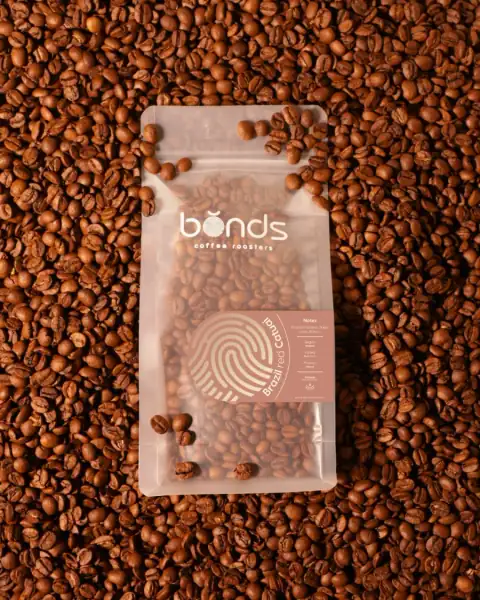
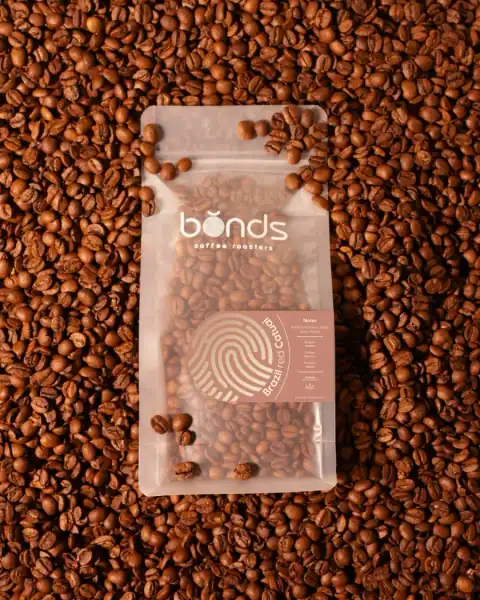
Cairo Roast home: coffees first with a taste filter; faster photos
- Home: a one-line how-it-works strip (2×2 on phones), then the coffees right away with one filter row (All · taste families · blends · single origin) that works without scripts; the discovery box follows the coffees
- Photos: a 720 px copy for product pages on phones (83 KB instead of 184 KB) and a lighter 480 px copy for cards (45 KB); size hints so phones stop downloading the full photo
- Photos, logos and build files are cached by browsers (30 days; build files for good) and, on cPanel, copied into cairoroast.com's web folder so the web server sends them instead of the Node app

diff --git a/apps/web/src/app/[niche]/page.tsx b/apps/web/src/app/[niche]/page.tsx
@@ -1,5 +1,6 @@
 import type { Metadata } from 'next';
 import Link from 'next/link';
+import { Fragment } from 'react';
 import { notFound } from 'next/navigation';
 import { BundleArt, TrustIcon } from '@/components/Art';
 import { Footer } from '@/components/Footer';
@@ -8,7 +9,7 @@ import { catalog } from '@/lib/catalog';
 import { guidesFor } from '@/lib/guides';
 import { speaker } from '@/lib/lang';
 import { getNiche } from '@/lib/niches';
-import { responsive } from '@/lib/img';
+import { CARD_SIZES, responsive } from '@/lib/img';
 import { jsonLd, origin, pageMeta, siteUrl } from '@/lib/site';
 
 type P = { params: Promise<{ niche: string }> };
@@ -32,6 +33,11 @@ export default async function Home({ params }: P) {
   const sellers = [...new Map(products.map((p) => [p.sellerId, cat.sellerOf(p)])).values()].filter((x) => x.about);
   const guides = guidesFor(cfg.id);
   const families = (cfg.tasteFamilies ?? []).filter((f) => products.some((p) => p.profile?.family === f.id));
+  // Filter chips on the home page: taste families first, then categories (only when a niche has taste families).
+  const filters = families.length ? [
+    ...families.map((f) => ({ id: f.id, emoji: f.emoji, label: (s.en && f.labelEn) || f.labelAr, hint: (s.en && f.hintEn) || f.hintAr, count: products.filter((p) => p.profile?.family === f.id).length })),
+    ...cfg.categories.map((c) => ({ id: c.id, emoji: undefined, label: s.category(c), hint: undefined, count: products.filter((p) => p.category === c.id).length })).filter((c) => c.count > 0),
+  ] : [];
   const structured = [
     { '@context': 'https://schema.org', '@type': 'OnlineStore', name: cfg.brand.nameEn, alternateName: cfg.brand.nameAr, url: siteUrl(cfg), description: cfg.brand.description?.en, ...(cfg.brand.logo ? { logo: `${origin(cfg)}${cfg.brand.icon ?? cfg.brand.logo}` } : {}), areaServed: 'EG', currenciesAccepted: 'EGP', paymentAccepted: 'Cash on delivery, InstaPay' },
     { '@context': 'https://schema.org', '@type': 'WebSite', name: cfg.brand.nameEn, url: siteUrl(cfg), inLanguage: ['ar', 'en'], potentialAction: { '@type': 'SearchAction', target: `${siteUrl(cfg, '/search')}?q={q}`, 'query-input': 'required name=q' } },
@@ -52,31 +58,15 @@ export default async function Home({ params }: P) {
           </div>
           <div className="ph-stack" aria-hidden="true">
             {/* eslint-disable-next-line @next/next/no-img-element */}
-            {cfg.hero.images.slice(0, 3).map((src, i) => <img key={src} {...responsive(src, '(min-width: 700px) 240px, 46vw')} alt="" className={`s${i}`} decoding="async" fetchPriority={i === 0 ? 'high' : 'auto'} />)}
+            {cfg.hero.images.slice(0, 3).map((src, i) => <img key={src} {...responsive(src, CARD_SIZES)} alt="" className={`s${i}`} decoding="async" fetchPriority={i === 0 ? 'high' : 'auto'} />)}
           </div>
         </section>
       )}
       {cfg.steps?.length ? (
-        <section className="steps" aria-label={s.en ? 'How it works' : 'إزاي بتطلب'}>
-          <h2 className="sec">{s.en ? 'How it works' : 'إزاي بتطلب؟'}</h2>
-          <ol>
-            {cfg.steps.map((st, i) => (
-              <li key={st.ar}><span className="em" aria-hidden="true">{st.emoji}</span><span className="n">{i + 1}</span><b>{text(st)}</b><span className="muted">{text(st.text)}</span></li>
-            ))}
-          </ol>
-        </section>
+        <ol className="steps-strip" aria-label={s.en ? 'How it works' : 'إزاي بتطلب'}>
+          {cfg.steps.map((st) => <li key={st.ar}><span aria-hidden="true">{st.emoji}</span><b>{text(st)}</b></li>)}
+        </ol>
       ) : null}
-      {hero && cfg.hero && (
-        <Link className="box-card" href={`/${cfg.id}/b/${hero.bundle.id}`}>
-          <div className="art"><BundleArt parts={hero.parts.map((p) => p.product)} /></div>
-          <div>
-            <span className="small">{text(cfg.homeEyebrow)}</span>
-            <b>{s.bundle(hero.bundle)}</b>
-            <span className="small muted">{hero.parts.map((p) => s.product(p.product).split(' — ')[0]).join(' + ')}</span>
-            <div className="price num"><b>{s.egp(hero.price)}</b><s>{s.egp(hero.fullPrice)}</s><span className="save">{s.t('bundleSave', { x: s.egp(hero.bundle.discountEgp) })}</span></div>
-          </div>
-        </Link>
-      )}
       {hero && !cfg.hero && (
         <section className="hero">
           <div className="art"><BundleArt parts={hero.parts.map((p) => p.product)} /></div>
@@ -98,21 +88,28 @@ export default async function Home({ params }: P) {
           <div><b>{s.t('how.3')}</b>{s.t('how.3s')}</div>
         </div>
       )}
-      {families.length > 0 && (
-        <section style={{ display: 'grid', gap: 10 }}>
-          <div><h2 className="sec">{s.t('shopByTaste')}</h2><span className="muted small">{s.t('shopByTasteSub')}</span></div>
-          <div className="families">
-            {families.map((f) => (
-              <Link key={f.id} className="family" href={`/${cfg.id}/search?family=${f.id}`}>
-                <b>{f.emoji ? <span className="fe" aria-hidden="true">{f.emoji}</span> : null}{(s.en && f.labelEn) || f.labelAr}</b>
-                {f.hintAr && <span className="muted">{(s.en && f.hintEn) || f.hintAr}</span>}
-                <span className="go" aria-hidden="true">←</span>
-              </Link>
+      {products.length && filters.length ? (
+        // Taste and type filters in one row; pure CSS (radio buttons), so it works before any script loads.
+        <section className="shop" id="coffees" aria-labelledby="coffees-h">
+          <style dangerouslySetInnerHTML={{ __html: filters.map((f) => `.shop:has(#f-${f.id}:checked) .grid>:not([data-f~="${f.id}"]){display:none}.shop:has(#f-${f.id}:checked) .fhint[data-for="${f.id}"]{display:block}`).join('') }} />
+          <div>
+            <h2 className="sec" id="coffees-h">{text(cfg.homeSection)}</h2>
+            <span className="muted small">{s.t('shopByTasteSub')}</span>
+          </div>
+          <div className="filters" role="radiogroup" aria-label={s.t('shopByTaste')}>
+            <input type="radio" name="shop-filter" id="f-all" defaultChecked />
+            <label htmlFor="f-all">{s.en ? 'All' : 'الكل'}<span className="n">{products.length}</span></label>
+            {filters.map((f) => (
+              <Fragment key={f.id}>
+                <input type="radio" name="shop-filter" id={`f-${f.id}`} />
+                <label htmlFor={`f-${f.id}`}>{f.emoji && <span aria-hidden="true">{f.emoji}</span>}{f.label}<span className="n">{f.count}</span></label>
+              </Fragment>
             ))}
           </div>
+          {filters.filter((f) => f.hint).map((f) => <p key={f.id} className="fhint muted small" data-for={f.id}>{f.emoji} {f.hint}</p>)}
+          <div className="grid">{products.map((p) => <ProductCard key={p.id} p={p} seller={cat.sellerOf(p)} s={s} tags={[p.profile?.family, p.category].filter(Boolean).join(' ')} />)}</div>
         </section>
-      )}
-      {products.length ? (
+      ) : products.length ? (
         <>
           <nav className="chips" aria-label={s.t('categories')}>
             {cfg.categories.map((c) => <Link key={c.id} className="chip" href={`/${cfg.id}/search?cat=${c.id}`}>{s.category(c)}</Link>)}
@@ -128,6 +125,17 @@ export default async function Home({ params }: P) {
             {cfg.categories.map((c) => <span key={c.id} className="chip">{s.category(c)}</span>)}
           </div>
         </section>
+      )}
+      {hero && cfg.hero && (
+        <Link className="box-card" href={`/${cfg.id}/b/${hero.bundle.id}`}>
+          <div className="art"><BundleArt parts={hero.parts.map((p) => p.product)} /></div>
+          <div>
+            <span className="small">{text(cfg.homeEyebrow)}</span>
+            <b>{s.bundle(hero.bundle)}</b>
+            <span className="small muted">{hero.parts.map((p) => s.product(p.product).split(' — ')[0]).join(' + ')}</span>
+            <div className="price num"><b>{s.egp(hero.price)}</b><s>{s.egp(hero.fullPrice)}</s><span className="save">{s.t('bundleSave', { x: s.egp(hero.bundle.discountEgp) })}</span></div>
+          </div>
+        </Link>
       )}
       {sellers.map((x) => (
         <section key={x.id} className="roaster" aria-label={s.t('meetRoaster')}>

diff --git a/apps/web/src/app/globals.css b/apps/web/src/app/globals.css
@@ -300,3 +300,23 @@ details p { margin: 6px 0 0; color: var(--muted); }
 .best-list i { font-style: normal; }
 .roaster .av:has(img), .roaster-chip .av:has(img) { background: #fff; border: 1px solid var(--line); }
 .roaster .av img, .roaster-chip .av img { object-fit: contain; }
+
+/* Home: one-line how-it-works strip, and the coffee filter row */
+.steps-strip { list-style: none; margin: 0; padding: 10px 12px; display: grid; grid-template-columns: 1fr 1fr; gap: 8px 10px; border-radius: 14px; background: var(--surface); border: 1px solid var(--line); }
+.steps-strip li { display: flex; align-items: center; gap: 6px; font-size: 12.5px; line-height: 1.3; }
+.steps-strip li span { font-size: 17px; }
+@media (min-width: 700px) {
+  .steps-strip { display: flex; justify-content: space-between; padding: 12px 18px; }
+  .steps-strip li { font-size: 14px; white-space: nowrap; }
+  .steps-strip li + li::before { content: '→'; color: var(--muted); margin-inline-end: 8px; }
+  [dir="rtl"] .steps-strip li + li::before { content: '←'; }
+}
+.shop { display: grid; gap: 10px; scroll-margin-top: 80px; }
+.filters { display: flex; gap: 8px; overflow-x: auto; padding: 2px 0 4px; scrollbar-width: none; }
+.filters input { position: absolute; opacity: 0; pointer-events: none; }
+.filters label { flex: none; display: inline-flex; align-items: center; gap: 6px; min-height: 40px; padding: 8px 14px; border-radius: 999px; border: 1.5px solid var(--line); background: var(--surface); font-size: 13.5px; font-weight: 700; cursor: pointer; white-space: nowrap; }
+.filters label .n { font-size: 11px; font-weight: 700; min-width: 18px; padding: 1px 6px; border-radius: 999px; background: var(--surface-2); color: var(--muted); text-align: center; }
+.filters input:checked + label { background: var(--primary); border-color: var(--primary); color: var(--on-primary); }
+.filters input:checked + label .n { background: rgba(255, 255, 255, .22); color: inherit; }
+.filters input:focus-visible + label { outline: 2px solid var(--primary); outline-offset: 2px; }
+.fhint { display: none; margin: -2px 0 0; }

diff --git a/apps/web/src/lib/img.ts b/apps/web/src/lib/img.ts
@@ -1,8 +1,16 @@
-// Photos stored on the site (public/products/…) have a small copy (name-sm.webp, 480 px,
-// made by scripts/photo-sizes.mjs). The browser picks the small one on phones and the
-// full one where the photo is shown large. Other photos (e.g. Supabase) are used as they are.
+// Photos stored on the site (public/products/…) have smaller copies made by
+// scripts/photo-sizes.mjs: name-sm.webp (480 px) and name-md.webp (720 px). The browser
+// picks the smallest one that is sharp enough. Other photos (e.g. Supabase) are used as they are.
 export function responsive(src: string, sizes: string): { src: string; srcSet?: string; sizes?: string } {
-  if (!/^\/products\/.+\.webp$/.test(src) || src.endsWith('-sm.webp')) return { src };
+  if (!/^\/products\/.+\.webp$/.test(src) || /-(sm|md)\.webp$/.test(src)) return { src };
   const small = src.replace(/\.webp$/, '-sm.webp');
-  return { src: small, srcSet: `${small} 480w, ${src} 900w`, sizes };
+  const medium = src.replace(/\.webp$/, '-md.webp');
+  return { src: small, srcSet: `${small} 480w, ${medium} 720w, ${src} 900w`, sizes };
 }
+
+// Sizes for the photos. Phones have 2–3 screen pixels per point, and a coffee photo looks
+// sharp at about 2: these widths are a little smaller than the photo's real width on phones,
+// so a phone downloads the 480 px copy for a card and the 720 px copy on a product page
+// instead of the full photo (45 KB and 83 KB instead of 180 KB).
+export const CARD_SIZES = '(min-width: 700px) 240px, 30vw';
+export const PAGE_SIZES = '(min-width: 900px) 50vw, 62vw';

diff --git a/apps/web/src/app/[niche]/p/[slug]/page.tsx b/apps/web/src/app/[niche]/p/[slug]/page.tsx
@@ -8,7 +8,7 @@ import { etaDate } from '@/lib/eta';
 import { speaker } from '@/lib/lang';
 import { getNiche } from '@/lib/niches';
 import { jsonLd, pageMeta, siteUrl } from '@/lib/site';
-import { responsive } from '@/lib/img';
+import { PAGE_SIZES, responsive } from '@/lib/img';
 
 type P = { params: Promise<{ niche: string; slug: string }> };
 
@@ -77,7 +77,7 @@ export default async function ProductPage({ params }: P) {
         {p.images?.length ? (
           <div className="gallery" aria-label={s.t('photos')}>
             {/* eslint-disable-next-line @next/next/no-img-element */}
-            {p.images.map((src, i) => <img key={src} {...responsive(src, '(min-width: 900px) 50vw, 100vw')} alt={s.t('photoN', { name, n: i + 1 })} loading={i ? 'lazy' : 'eager'} decoding="async" />)}
+            {p.images.map((src, i) => <img key={src} {...responsive(src, PAGE_SIZES)} alt={s.t('photoN', { name, n: i + 1 })} loading={i ? 'lazy' : 'eager'} fetchPriority={i ? 'auto' : 'high'} decoding="async" />)}
           </div>
         ) : <div className="big"><Art kind={p.art} color={p.color} label={cfg.brand.pickSeal ? { brand: cfg.brand.nameEn.toUpperCase(), name: (p.en?.name ?? p.nameAr).replace(/ Blend$/, '') } : undefined} /></div>}
         {seal && <PickSeal text={seal} under={s.en ? cfg.brand.nameAr : cfg.brand.nameEn.toUpperCase()} logo={cfg.brand.logo} rtl={!s.en} />}

diff --git a/apps/web/src/components/ProductCard.tsx b/apps/web/src/components/ProductCard.tsx
@@ -7,7 +7,8 @@ import type { Product, Seller } from '@/lib/types';
 import { Art } from './Art';
 import { Notes } from './Taste';
 
-export function ProductCard({ p, seller: sl, s }: { p: Product; seller: Seller; s: Speaker }) {
+/** tags: words the home page filter matches (taste family, category). */
+export function ProductCard({ p, seller: sl, s, tags }: { p: Product; seller: Seller; s: Speaker; tags?: string }) {
   const r = priceRange(p);
   const cfg = getNiche(p.niche);
   const fam = cfg?.tasteFamilies?.find((f) => f.id === p.profile?.family);
@@ -15,7 +16,7 @@ export function ProductCard({ p, seller: sl, s }: { p: Product; seller: Seller; 
   const axis = cfg?.optionAxes?.[0];
   const options = axis ? [...new Set(p.variants.map((v) => v.opts?.[axis.id]).filter((x): x is string => Boolean(x)))].map((x) => (s.en && axis.valuesEn?.[x]) || x) : [];
   return (
-    <Link href={`/${p.niche}/p/${p.slug}`} className="card">
+    <Link href={`/${p.niche}/p/${p.slug}`} className="card" data-f={tags}>
       <div className="pimg">
         <Art kind={p.art} color={p.color} image={p.images?.[0]} alt={s.product(p)} />
         {fam && <span className="badge">{fam.emoji} {(s.en && fam.labelEn) || fam.labelAr}</span>}

diff --git a/apps/web/src/components/Art.tsx b/apps/web/src/components/Art.tsx
@@ -1,5 +1,5 @@
 // Placeholder product drawings until real seller photos are uploaded.
-import { responsive } from '@/lib/img';
+import { CARD_SIZES, responsive } from '@/lib/img';
 import type { ArtKind } from '@/lib/types';
 
 const SHAPES: Record<Exclude<ArtKind, 'kit' | 'coffee'>, string> = {
@@ -43,7 +43,7 @@ const Shape = ({ kind, color, label }: { kind: Exclude<ArtKind, 'kit'>; color: s
 export function Art({ kind, color, kitColors, image, alt = '', label }: { kind: ArtKind; color: string; kitColors?: string[]; image?: string; alt?: string; label?: { brand: string; name: string } }) {
   // eslint-disable-next-line @next/next/no-img-element
   // Cards, cart lines and bundle parts: small photo on phones.
-  if (image) return <img className="photo" {...responsive(image, '(min-width: 700px) 240px, 46vw')} alt={alt} loading="lazy" decoding="async" />;
+  if (image) return <img className="photo" {...responsive(image, CARD_SIZES)} alt={alt} loading="lazy" decoding="async" />;
   if (kind === 'kit') {
     const [a = '#D8C6A6', b = '#2A2D30', c = '#CBBDA5'] = kitColors ?? [];
     return (

diff --git a/apps/web/next.config.ts b/apps/web/next.config.ts
@@ -18,6 +18,7 @@ const config: NextConfig = {
   async headers() {
     return [
       { source: '/:path*', headers: security },
+      ...['products', 'brands', 'sellers'].map((dir) => ({ source: `/${dir}/:path*`, headers: [{ key: 'Cache-Control', value: 'public, max-age=2592000, stale-while-revalidate=604800' }] })),
       { source: '/admin/:path*', headers: [{ key: 'X-Robots-Tag', value: 'noindex, nofollow' }, { key: 'Cache-Control', value: 'no-store' }] },
     ];
   },

diff --git a/deploy/cpanel/README.md b/deploy/cpanel/README.md
@@ -5,3 +5,10 @@ This branch is generated by GitHub Actions from `main`. Do not edit it by hand.
 It contains the built server (`apps/web/server.js`), its minimal `node_modules`, the static files and the niche settings. cPanel pulls it and runs `.cpanel.yml`.
 
 `REVISION` holds the `main` commit this build came from.
+
+## Photos and build files served by the web server
+
+On every deploy, `.cpanel.yml` also copies `products/`, `brands/`, `sellers/` and `_next/static/`
+into cairoroast.com's web folder (`/home/viorowzb/cairoroast.com`). The web server sends files
+that exist there itself, cached by the browser (the small `.htaccess` in each folder sets how long),
+and passes every other request to the Node app. Nothing to do by hand; the root `.htaccess` is untouched.
